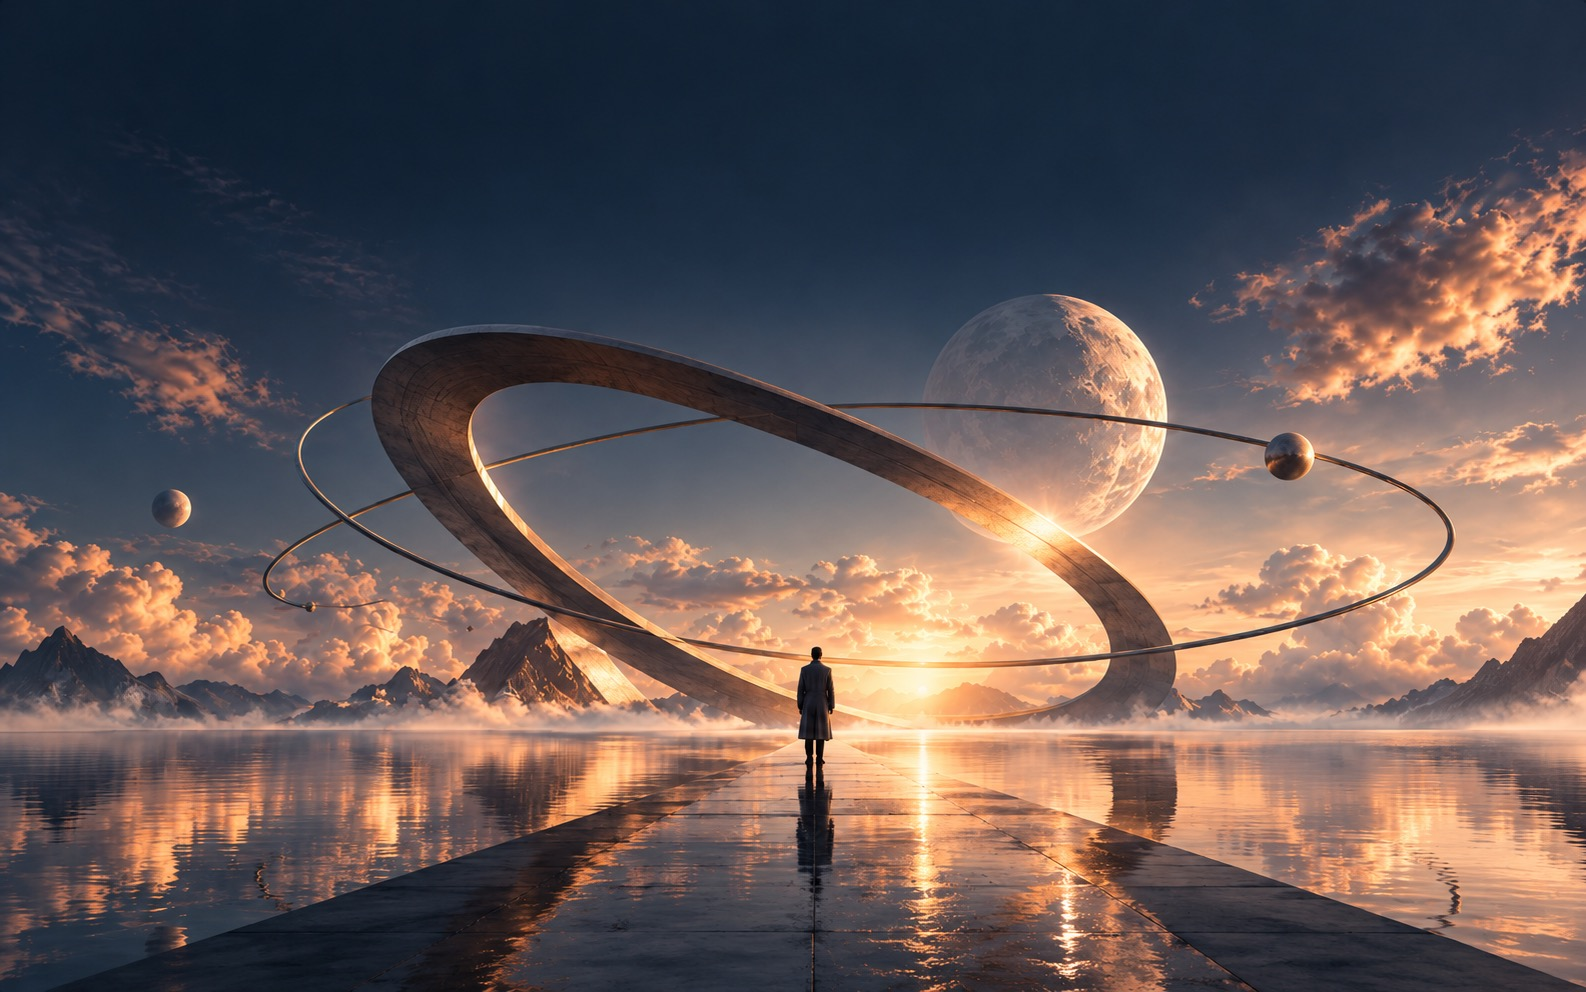
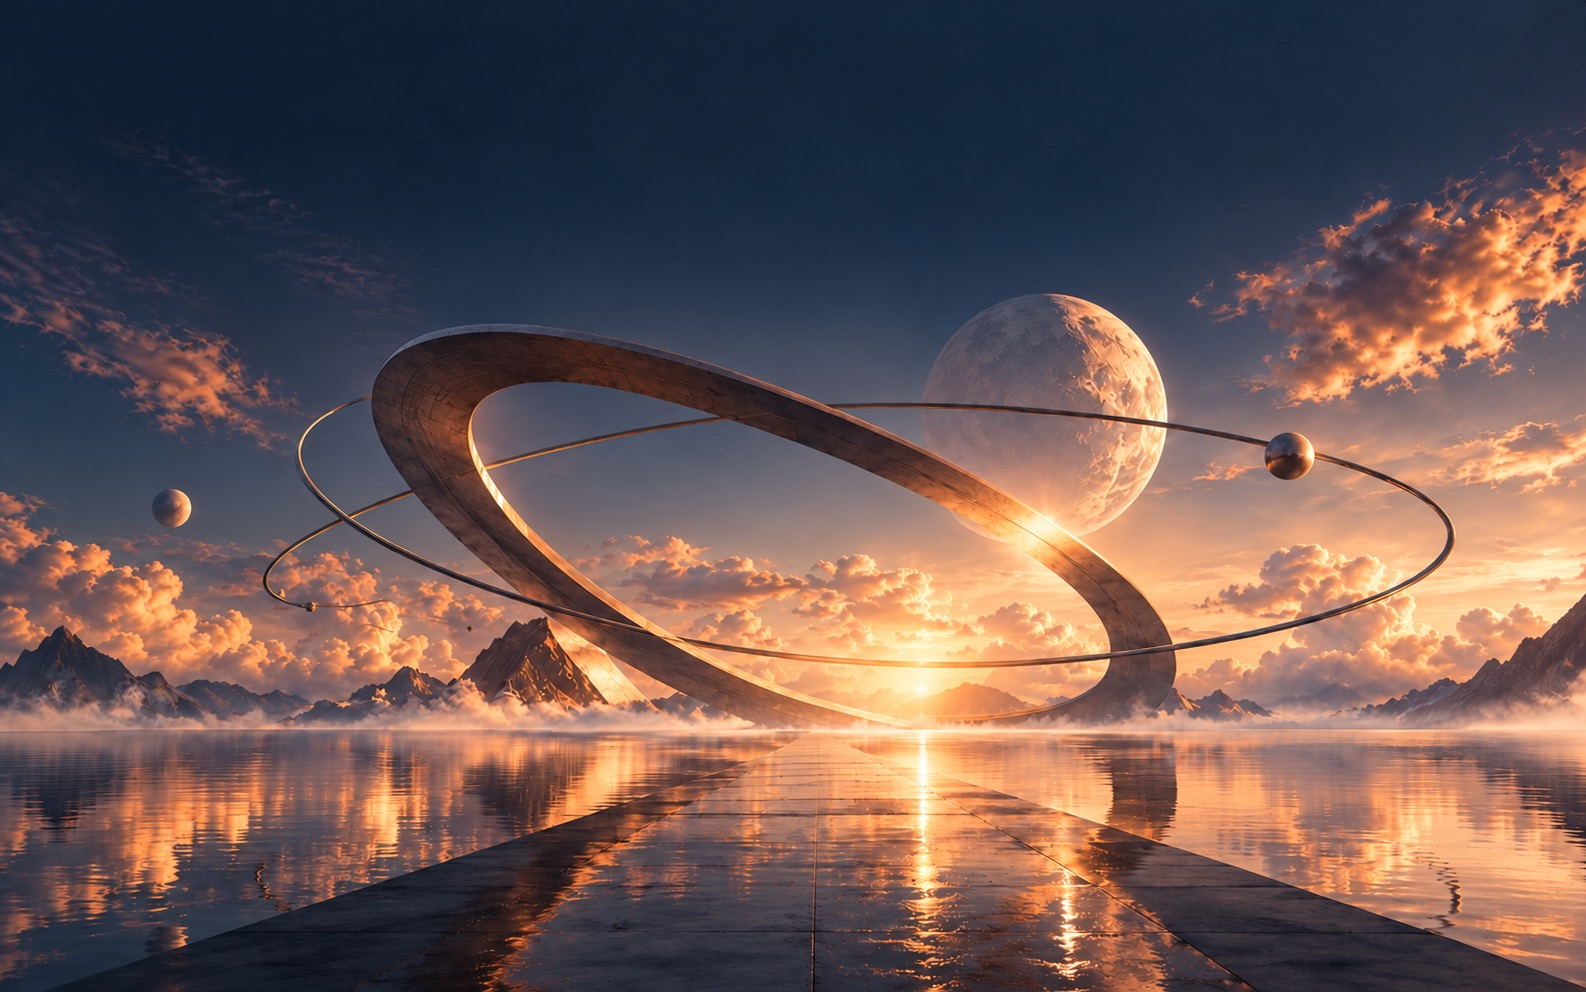
Fix short idea intake and repeated onboarding; clean home artwork

diff --git a/apps/web/components/prompt-studio/studio.tsx b/apps/web/components/prompt-studio/studio.tsx
@@ -1,6 +1,6 @@
 "use client";
 
-import { useEffect, useRef, useState } from "react";
+import { useEffect, useRef, useState, useSyncExternalStore } from "react";
 import { ProvnLogo } from "@/components/provn-logo";
 import { WorkspaceNav } from "./workspace-nav";
 import { BuilderOnboarding } from "./onboarding";
@@ -79,6 +79,14 @@ function StudioIcon({ name }: { name: "arrow" | "mic" | "spark" | "check" | "cod
   );
 }
 
+const subscribeOnboarding = () => () => {};
+function onboardingWasDismissed() {
+  try {
+    return localStorage.getItem("provn-onboarding-dismissed") === "1";
+  } catch {
+    return false;
+  }
+}
 export function PromptStudio({
   demo = false,
   buildConnection,
@@ -87,6 +95,11 @@ export function PromptStudio({
   buildConnection?: StudioBuildConnection;
 }) {
   const params = useSearchParams();
+  const onboardingDismissed = useSyncExternalStore(
+    subscribeOnboarding,
+    onboardingWasDismissed,
+    () => true,
+  );
   const [live, setLive] = useState(false);
   const [history, setHistory] = useState<StudioVersion[]>([]);
   const pendingSave = useRef<SaveAttempt | null>(null);
@@ -94,7 +107,6 @@ export function PromptStudio({
   const [modelTrace, setModelTrace] = useState("");
   const modelRequest = useRef<AbortController | null>(null);
   const [profile, setProfile] = useState<BuilderProfile>(DEFAULT_PROFILE);
-  const [onboarded, setOnboarded] = useState(false);
   const [showOnboarding, setShowOnboarding] = useState(() => demo || !params.get("session"));
   const [idea, setIdea] = useState("");
   const [draft, setDraft] = useState<PromptStudioDraft | null>(null);
@@ -122,7 +134,6 @@ export function PromptStudio({
         setHistory(StudioVersionSchema.array().parse(data.history));
         setProfile(loaded.onboarding ?? DEFAULT_PROFILE);
         setLive(loaded.adapterMode === "openai");
-        setOnboarded(true);
         setPauseRevision((value) => value + 1);
         setConfirmed(false);
         setModelTrace("");
@@ -143,16 +154,21 @@ export function PromptStudio({
     },
     [],
   );
+  function dismissOnboarding() {
+    setShowOnboarding(false);
+    try {
+      localStorage.setItem("provn-onboarding-dismissed", "1");
+    } catch {
+      /* Keep this session usable. */
+    }
+  }
   function change(next: PromptStudioDraft) {
     setDraft(next);
     setConfirmed(false);
     setNotice("Unsaved changes");
   }
   async function interpret(chosenProfile?: BuilderProfile) {
-    if (!onboarded && !chosenProfile) {
-      setShowOnboarding(true);
-      return;
-    }
+    if (busy || !idea.trim()) return;
     setError("");
     setBusy(true);
     try {
@@ -357,7 +373,7 @@ export function PromptStudio({
         maxLength={2000}
         onChange={(e) => setIdea(e.target.value)}
         onKeyDown={(e) => {
-          if ((e.metaKey || e.ctrlKey) && e.key === "Enter" && idea.trim().length >= 50 && !busy) {
+          if ((e.metaKey || e.ctrlKey) && e.key === "Enter" && idea.trim().length > 0 && !busy) {
             e.preventDefault();
             void interpret();
           }
@@ -380,7 +396,7 @@ export function PromptStudio({
         <button
           className={button}
           onClick={() => interpret()}
-          disabled={busy || idea.trim().length < 50}
+          disabled={busy || idea.trim().length === 0}
         >
           {busy ? "Shaping…" : draft ? "Start new brief" : "Shape my idea"}
           <StudioIcon name="arrow" />
@@ -728,14 +744,13 @@ export function PromptStudio({
         }}
       />
       <div className={`conduit-studio ${draft ? "has-draft" : "is-welcome"}`}>
-        {showOnboarding && (
+        {showOnboarding && !onboardingDismissed && (
           <BuilderOnboarding
-            onClose={() => setShowOnboarding(false)}
+            onClose={dismissOnboarding}
             onComplete={(settings) => {
               setProfile(settings);
-              setOnboarded(true);
-              setShowOnboarding(false);
-              if (idea.trim().length >= 50) void interpret(settings);
+              dismissOnboarding();
+              if (idea.trim().length > 0) void interpret(settings);
             }}
           />
         )}

diff --git a/apps/web/e2e/prompt-studio-intake.spec.ts b/apps/web/e2e/prompt-studio-intake.spec.ts
@@ -1,0 +1,23 @@
+import { expect, test } from "@playwright/test";
+
+test("dismissed onboarding does not block short ideas or repeat on new builds", async ({
+  page,
+}) => {
+  await page.goto("/prompt-studio-demo");
+  await page.getByRole("button", { name: "Close onboarding" }).click();
+  await page.getByLabel("Describe your product", { exact: true }).fill("Todo app");
+  await page.getByRole("button", { name: "Shape my idea", exact: true }).click();
+  await expect(page.getByLabel("Agent conversation", { exact: true })).toBeVisible();
+  await page.getByRole("link", { name: "New build", exact: true }).click();
+  await expect(page.getByRole("button", { name: "Close onboarding" })).toHaveCount(0);
+  await page.getByLabel("Describe your product", { exact: true }).fill("Recipe planner");
+  await page.getByRole("button", { name: "Shape my idea", exact: true }).click();
+  await expect(page.getByLabel("Agent conversation", { exact: true })).toBeVisible();
+});
+
+test("empty ideas stay disabled", async ({ page }) => {
+  await page.goto("/prompt-studio-demo");
+  await page.getByRole("button", { name: "Continue to my workspace →" }).click();
+  await page.getByLabel("Describe your product", { exact: true }).fill("   ");
+  await expect(page.getByRole("button", { name: "Shape my idea", exact: true })).toBeDisabled();
+});

diff --git a/packages/db/test/rls.test.ts b/packages/db/test/rls.test.ts
@@ -111,14 +111,14 @@ describe("writes", () => {
     expect(count).toBe(1);
   });
 
-  test.each([49, 2001])("idea text of %i chars is rejected", async (length) => {
+  test.each([0, 2001])("idea text of %i chars is rejected", async (length) => {
     const { error } = await serviceClient()
       .from("ideas")
       .insert({ user_id: owner.userId, text: "x".repeat(length) });
     expect(error?.code).toBe("23514");
   });
 
-  test.each([50, 2000])("idea text of %i chars is accepted", async (length) => {
+  test.each([1, 49, 50, 2000])("idea text of %i chars is accepted", async (length) => {
     const { error } = await serviceClient()
       .from("ideas")
       .insert({ user_id: other.userId, text: "x".repeat(length) });

diff --git a/packages/shared/src/prompt-studio.test.ts b/packages/shared/src/prompt-studio.test.ts
@@ -26,7 +26,8 @@ const fixture = () => ({
 });
 describe("Prompt Studio integration contract", () => {
   it("matches the intake input limits", () => {
-    expect(PromptStudioInputSchema.safeParse({ idea: "short" }).success).toBe(false);
+    expect(PromptStudioInputSchema.safeParse({ idea: "   " }).success).toBe(false);
+    expect(PromptStudioInputSchema.safeParse({ idea: "short" }).success).toBe(true);
     expect(PromptStudioInputSchema.safeParse({ idea: "a".repeat(2001) }).success).toBe(false);
     expect(
       PromptStudioInputSchema.safeParse({ idea: "a".repeat(50), links: ["javascript:alert(1)"] })

diff --git a/packages/shared/src/prompt-studio.ts b/packages/shared/src/prompt-studio.ts
@@ -3,7 +3,7 @@ import { SpecSchema } from "./spec";
 
 /** Input limits match Phase 1. Text must be masked by the host before agent dispatch. */
 export const PromptStudioInputSchema = z.object({
-  idea: z.string().trim().min(50).max(2_000),
+  idea: z.string().trim().min(1).max(2_000),
   links: z
     .array(
       z
